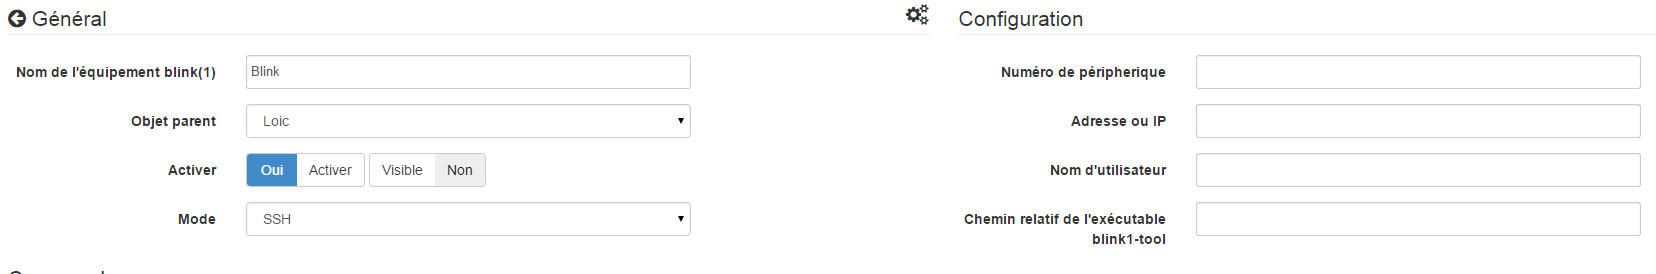
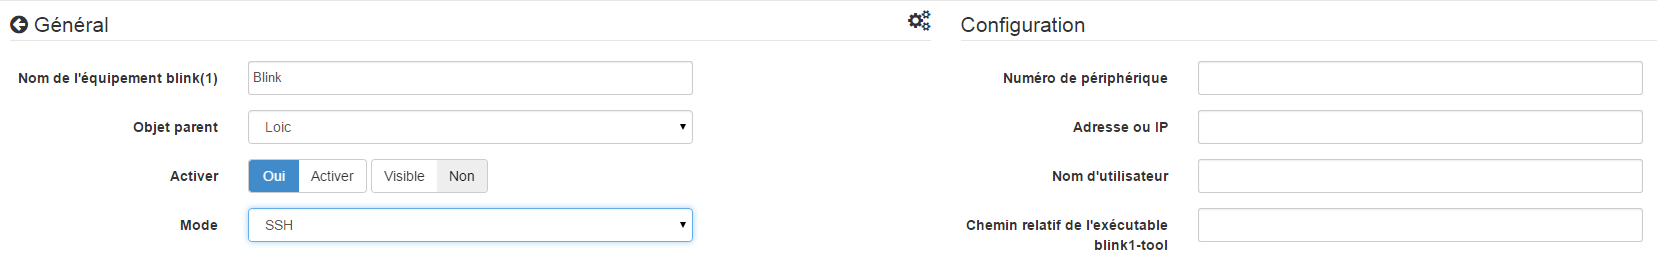
Update doc

diff --git a/desktop/php/blink1.php b/desktop/php/blink1.php
@@ -99,7 +99,7 @@ foreach (object::all() as $object) {
    <form class="form-horizontal">
     <fieldset>
      <div class="form-group mode ssh local expertModeVisible">
-        <label class="col-sm-3 control-label">{{Numéro de péripherique}}</label>
+        <label class="col-sm-3 control-label">{{Numéro de périphérique}}</label>
         <div class="col-sm-6">
             <input type="text" class="eqLogicAttr form-control" data-l1key="configuration" data-l2key="device" title="{{Laisser vide pour utiliser le premier blink(1) trouvé}}"/>
         </div>
